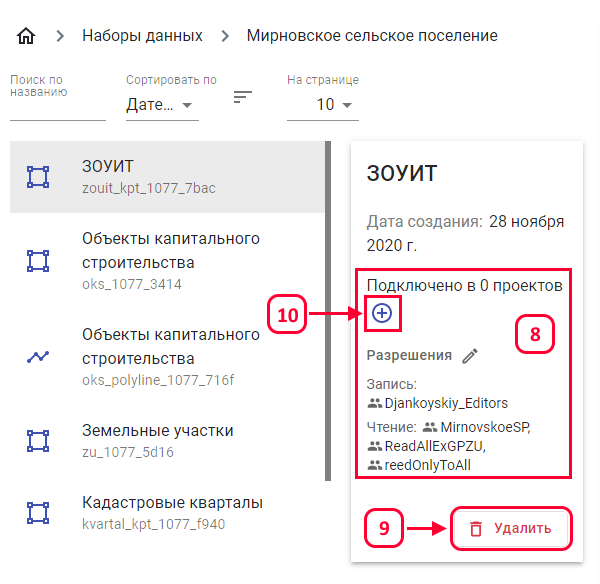
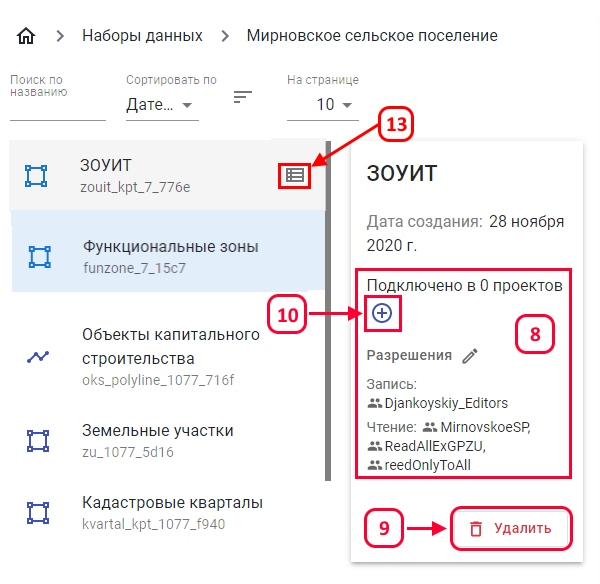
Объединенный запрос на вытягивание 247: chore(ui:help) update for help
Связанные рабочие элементы: #1217

Changed region(s): [[0.0, 0.2466, 0.57, 0.524], [0.57, 0.1849, 0.69, 0.2466]]

diff --git a/portal-ui/src/assets/help/5dataManagement/1dataSets/01dataSets.html b/portal-ui/src/assets/help/5dataManagement/1dataSets/01dataSets.html
@@ -1,9 +1,9 @@
 <p>
-  Для перехода в раздел управления наборов данных, требуется в появившимся окне выбрать «Наборы данных» (1) и нажать
+  Для перехода в раздел управления наборов данных, требуется на странице "Управление данными" выбрать «Наборы данных» (1) и нажать
   «Кнопку перехода в раздел» (2):
 </p>
 <center><img src="01dataSets_1.png" alt="" /></center>
-<p>Для создания набора данных необходимо ЛКМ нажать на(1) ввести информацию по набору данных, сохранить.</p>
+<p>Для создания набора данных необходимо ЛКМ нажать на (1) ввести информацию по набору данных, сохранить.</p>
 <center><img src="01dataSets_2.png" alt="" /></center>
 <p>
   В разделе «Наборы данных» представлен список всех наборов данных. Для удобства поиска и сортировки можно
@@ -18,7 +18,6 @@
 <center><img src="01dataSets_3.png" alt="" /></center>
 <p>В правой панели доступны разрешения для слоя (8).</p>
 <p>Для удаления слоя из набора данных, требуется нажать кнопку <b>«Удалить»</b> (9).</p>
-<p>Для подключения слоя в проект, требуется нажать кнопку <b>«Подключения в проект»</b> (10),</p>
-<p>Редактирование параметров набора данных <b>(12)</b></p>
-<p>в появившимся окне, следует выбрать проект и нажать кнопку <b>«Подключить»</b>.</p>
-<center><img src="01dataSets_4.png" alt="" /></center>
+<p>Для подключения слоя в проект, требуется нажать кнопку <b>«Подключения в проект»</b> (10).</p>
+<p>Редактирование параметров набора данных <b>(12)</b>. В появившимся окне, следует выбрать проект и нажать кнопку <b>«Подключить»</b>.</p>
+<p>Для перехода в табличный вид векторной таблицы, требуется нажать <b>(13)</b>.</p>

diff --git a/portal-ui/src/assets/help/5dataManagement/20importKpt/20importKpt.html b/portal-ui/src/assets/help/5dataManagement/20importKpt/20importKpt.html
@@ -1,0 +1,13 @@
+<p>Функция <b>«Импорт КПТ»</b> предназначена для импорта ранее заказанных кадастровых данных из папки или документов, в выбранные векторные таблицы.</p>
+<p>Для импорта КПТ необходимо перейти в раздел «Библиотеки документов» (2).</p>
+<center><img src="20importKpt_1.png" alt="" /></center>
+<p>В фильтре по названию найти библиотеку «КПТ» (3).</p>
+<center><img src="20importKpt_2.png" alt="" /></center>
+<p>В библиотеке выбрать папку с заказанными КПТ, в папке размещены документы с наименованием кадастрового квартала.</p>
+<p>Для импорта необходимо нажать (4).</p>
+<center><img src="20importKpt_3.png" alt="" /></center>
+<p>Импортировать в выбранные таблицы (5) данные КПТ.</p>
+<center><img src="20importKpt_4.png" alt="" /></center>
+<p>Просмотр статуса выполнения импорта можно увидеть в разделе <b>«Задачи»</b>.</p>
+<center><img src="20importKpt_5.png" alt="" /></center>
+<p>Процесс импорта завершен когда в разделе <b>«Задачи»</b> в статусе задачи указано «Выполнена». Данные доступны для просмотра на карте или через наборы данных.</p>

diff --git a/portal-ui/src/assets/help/map/dataWork/13schemaDisposition/13schemaDisposition_1.html b/portal-ui/src/assets/help/map/dataWork/13schemaDisposition/13schemaDisposition_1.html
@@ -1,0 +1,14 @@
+<p><b>Схема расположения объектов</b> — это документ, объединяющий картографическое представление выделенных объектов с детализированной информацией о каждом объекте.</p>
+<p>Для создания схемы расположения объектов требуется:</p>
+<ol>
+    <li>Открыть атрибутивную таблицу слоя.</li>
+    <li>Выделить объекты, которые должны быть включены в схему.</li>
+    <li>Для удобство можно оставить только выделенные объекты. (1)</li>
+    <center><img src="13schemaDisposition_2.png" alt="" /></center>
+    <li>Нажать ЛКМ (2).</li>
+    <center><img src="13schemaDisposition_3.png" alt="" /></center>
+    <li>В диалоговом окне настроить параметры печати, указать название и выбрать фрагмент карты, который будет включен в схему.</li>
+    <li>Нажать «ОК» для сохранения схемы на локальный компьютер.</li>
+</ol>>
+<p>Схема расположения объектов показывает объекты на карте, их легенду а также атрибутивную данные с выделенными объектами.</p>
+<p>На локальный компьютер выгружен документ в формате PDF.</p>

diff --git a/portal-ui/src/assets/help/5dataManagement/19kptOrder/19kptOrder.html b/portal-ui/src/assets/help/5dataManagement/19kptOrder/19kptOrder.html
@@ -1,0 +1,10 @@
+<p>Функция <b>«Заказ КПТ»</b> позволяет заказать актуальный кадастровый план территории.</p>
+<p>Для заказа КПТ необходимо перейти в раздел «Библиотеки документов» (2).</p>
+<center><img src="19kptOrder_1.png" alt="" /></center>
+<p>В фильтре по названию найти библиотеку «КПТ» (3).</p>
+<center><img src="19kptOrder_2.png" alt="" /></center>
+<p>Выбрать заказ КПТ (4).</p>
+<center><img src="19kptOrder_3.png" alt="" /></center>
+<p>В диалоговом окне ввести номер кадастрового квартала. Если заказывается более одного кадастровго квартала, они вписываются через запятую без пробелов.</p>
+<center><img src="19kptOrder_4.png" alt="" /></center>
+<p>После размещения заказа на КПТ в этой библиотеке, будет создана новая папка, куда будут автоматически загружаться ZIP-архивы из ФГИС ЕГРН.</p>

diff --git a/portal-ui/src/assets/help/map/dataWork/14objectStatement/14objectStatement_1.html b/portal-ui/src/assets/help/map/dataWork/14objectStatement/14objectStatement_1.html
@@ -1,0 +1,10 @@
+<p><b>Выписка об объекте</b> — это документ, содержащий характеристики выбранного объекта, включая его картографическое представление и координатное описание.</p>
+<p>Для создания выписки об объекте, требуется:</p>
+<ol>
+    <li>Открыть объект, выбрав его на карте либо из атрибутивной таблицы.</li>
+    <li>Нажать ЛКМ (1)</li>
+    <center><img src="14objectStatement_2.png" alt="" /></center>
+    <li>В параметрах печати ввести нужное название и выбрать фрагмент карты.</li>
+    <li>Нажать «ОК» для сохранения выписки на локальный компьютер.</li>
+</ol>
+<p>Создана выписка в формате PDF.</p>

diff --git a/portal-ui/src/assets/help/map/2projectManagement/11photoLayer/11photoLayer.html b/portal-ui/src/assets/help/map/2projectManagement/11photoLayer/11photoLayer.html
@@ -1,0 +1,7 @@
+<p><b>Фотослой</b> предназначен для просмотра результатов фотофиксации при проколе или выделении, одного или множества объектов..</p>
+<p>Для активации функции «Фотослой», перейдите в свойства слоя (2).</p>
+<center><img src="11photoLayer_1.png" alt="" /></center>
+<p>Настройте свойства слоя и в последнем пункте «Фотослой» выберите поле, в котором содержатся данные о фотофиксации, нажмите «Изменить» (3).</p>
+<center><img src="11photoLayer_2.png" alt="" /></center>
+<p>При проколе объектов на карте отображаются сначала объекты фотофиксации.</p>
+<center><img src="11photoLayer_3.png" alt="" /></center>
